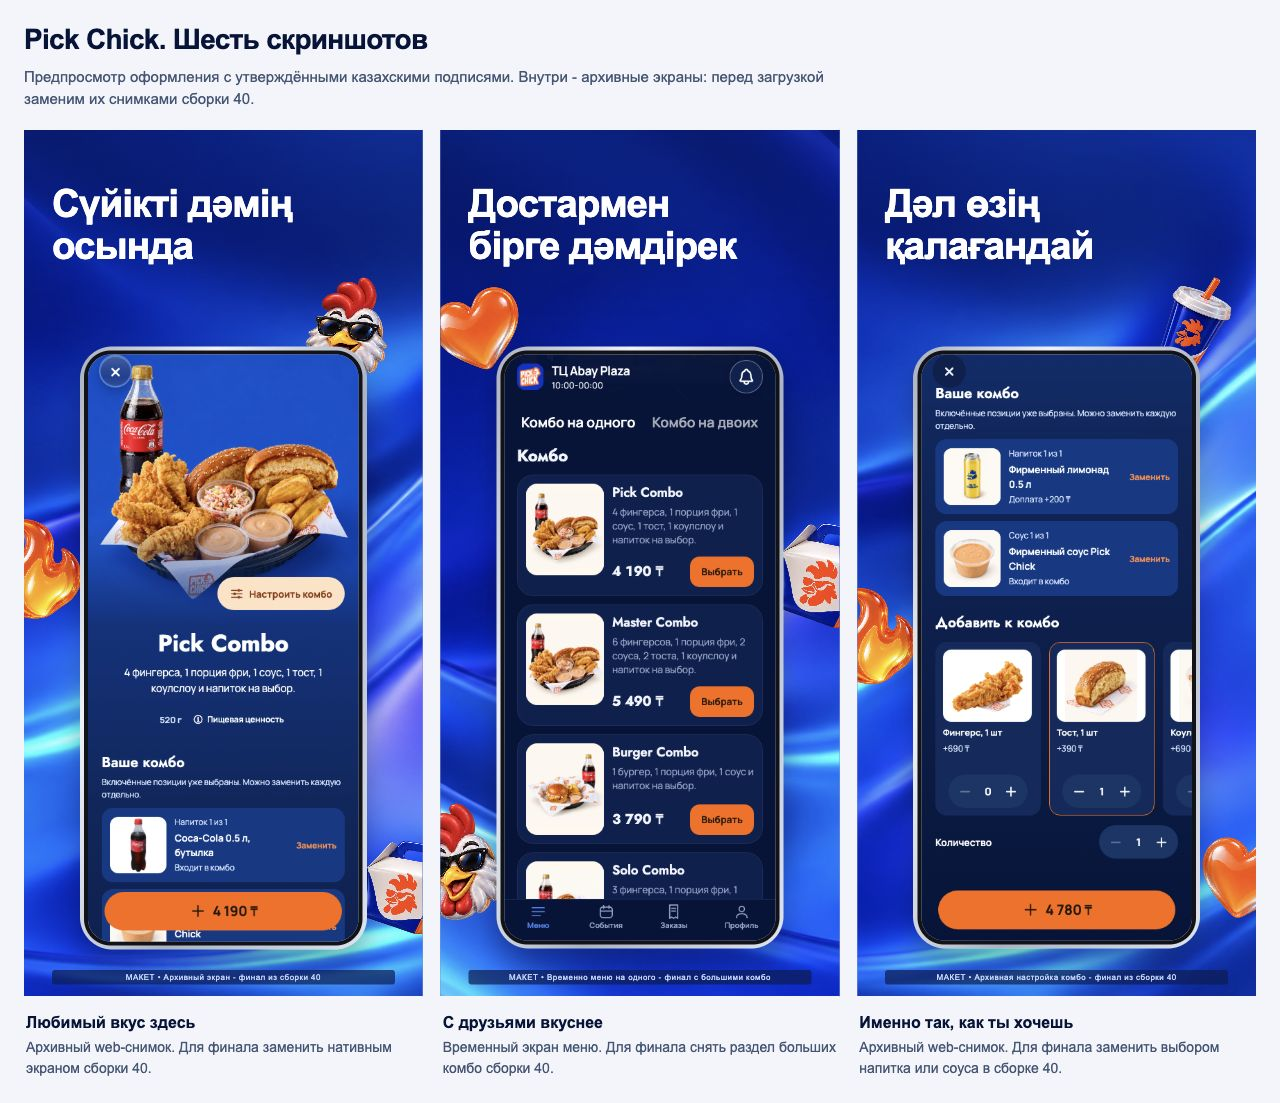
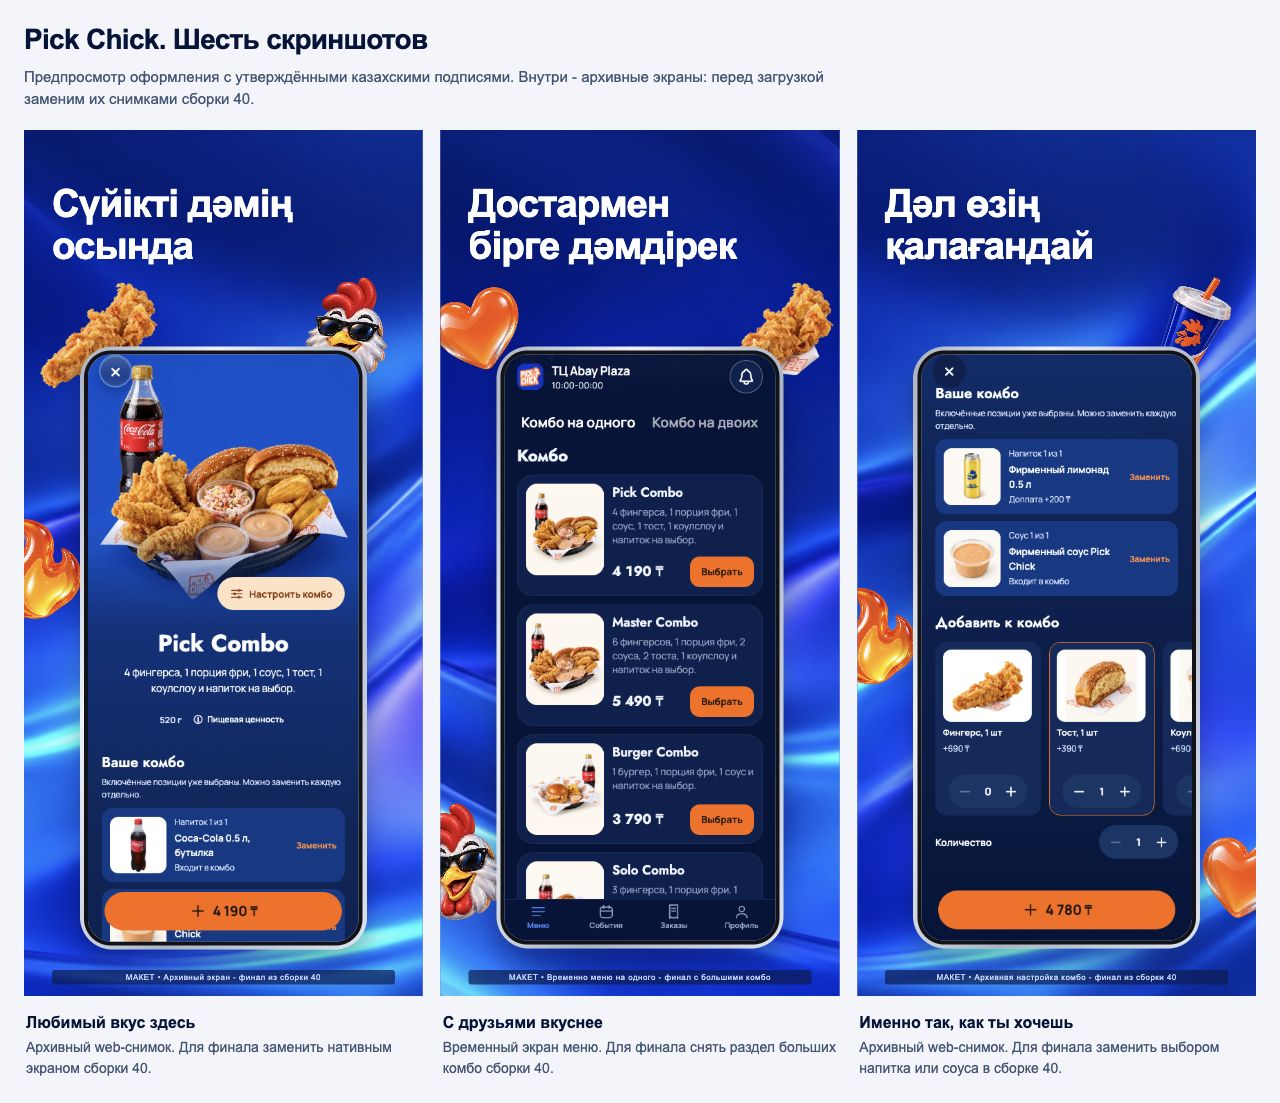
docs: replace screenshot box motifs with menu food

diff --git a/docs/operations/appstore-refresh-1117/screenshots-preview-1118/index.html b/docs/operations/appstore-refresh-1117/screenshots-preview-1118/index.html
@@ -158,8 +158,10 @@
       .motif.flame {
         background-position: 50% 0;
       }
-      .motif.box {
-        background-position: 100% 0;
+      .motif.food-fingers {
+        background-image: url('art/food-fingers.png');
+        background-position: center;
+        background-size: contain;
       }
       .motif.cup {
         background-position: 0 100%;
@@ -167,8 +169,10 @@
       .motif.heart {
         background-position: 50% 100%;
       }
-      .motif.blocks {
-        background-position: 100% 100%;
+      .motif.food-burger {
+        background-image: url('art/food-burger.png');
+        background-position: center;
+        background-size: contain;
       }
       body.cover-only main {
         padding: 0;

diff --git a/docs/operations/appstore-refresh-1117/screenshots-preview-1118/README.md b/docs/operations/appstore-refresh-1117/screenshots-preview-1118/README.md
@@ -23,7 +23,7 @@ python3 -m http.server 8876 --bind 127.0.0.1 --directory /private/tmp/pickchick-
 
 ## Оформление и ограничения
 
-Актуальный фон - синий шелковистый перелив с бирюзовыми и фиолетовыми отражениями. По просьбе владельца добавлены объёмные фигурки: Алекс в очках, пламя, коробка, стакан, сердце, стопка игровых коробок. На каждом кадре три разных мотива, расположенных за экраном. Принцип размещения изучен по Drinkit, персонажи и мотивы созданы для Pick Chick. [Происхождение и хеши](art/provenance.json), [промпты](art/prompts.md).
+Актуальный фон - синий шелковистый перелив с бирюзовыми и фиолетовыми отражениями. По просьбе владельца коробка и стопка игровых коробок заменены фингерсами и бургером из каталога приложения. Остальные мотивы - Алекс в очках, пламя, стакан и сердце. На каждом кадре три разных мотива, расположенных за экраном. Принцип размещения изучен по Drinkit, персонажи и мотивы созданы для Pick Chick. Еда взята из существующих catalog-cutouts без изменений: фингерсы - ранее созданная иллюстрация каталога, бургер - материал макета владельца. Это не новая фотосъёмка. [Происхождение и хеши](art/provenance.json), [промпты](art/prompts.md).
 
 Рамка нейтральная серебристая, без заявления о соответствии конкретному устройству. Внутри - только неизменённые исходные изображения интерфейса и еды. Казахские фразы целиком набраны Arial Bold: комплектные Jost и Manrope не содержат всех необходимых казахских глифов.
 

diff --git a/docs/operations/appstore-refresh-1117/screenshots-plan.md b/docs/operations/appstore-refresh-1117/screenshots-plan.md
@@ -2,7 +2,7 @@
 
 Статус на 18.11: [макеты оформления](screenshots-preview-1118/README.md) с утверждённым вторым набором подписей готовы для просмотра владельцем. Архивные экраны подписаны как временные. Файлов для загрузки в Apple пока нет.
 
-Актуальное направление после правки владельца: насыщенный переливающийся синий фон с бирюзовыми и фиолетовыми отражениями. Вокруг телефона - разные объёмные мотивы Pick Chick (Алекс, пламя, коробка, стакан, сердце, стопка коробок), по три на кадр. Это заменяет прежнее ограничение на фигурки за пределами телефона. Интерфейс и исходные фотографии еды не перерисованы. Телефон 72% ширины, верхняя граница на 25% высоты; заголовок остаётся крупным и читаемым.
+Актуальное направление после правки владельца: насыщенный переливающийся синий фон с бирюзовыми и фиолетовыми отражениями. Вокруг телефона - разные мотивы Pick Chick (Алекс, пламя, фингерсы, стакан, сердце, бургер), по три на кадр. Это заменяет прежнее ограничение на фигурки за пределами телефона. Интерфейс и исходные изображения еды не перерисованы. Телефон 72% ширины, верхняя граница на 25% высоты; заголовок остаётся крупным и читаемым.
 
 | Порядок | Казахская подпись        | Смысл по-русски           | Финальный экран             |
 | ------- | ------------------------ | ------------------------- | --------------------------- |

diff --git a/docs/operations/appstore-refresh-1117/README.md b/docs/operations/appstore-refresh-1117/README.md
@@ -34,6 +34,10 @@
 
 Фон и мотивы созданы встроенным генератором изображений. [Происхождение](screenshots-preview-1118/art/provenance.json) и [промпты](screenshots-preview-1118/art/prompts.md) сохранены. Проверены все размеры, исходные хеши, точные подписи и обе обзорные полосы. Это всё ещё предпросмотр; Apple и текущая обложка в нём не менялись.
 
+## Замена коробок едой 18.11
+
+По новой просьбе владельца три декоративные коробки заменены фингерсами, две стопки коробок - бургером. Использованы существующие прозрачные изображения из каталога приложения без изменения пикселей; их происхождение и SHA-256 сохранены. Подписи, интерфейсы, фон и обложка прежние. Проверены обе обзорные полосы, шесть экспортов 1320 x 2868 и неизменность исходных экранов. Новая версия макетов в Apple не загружена.
+
 ## Осталось
 
 Владелец отклонил прежние подписи и первый короткий вариант. Попросил самостоятельно предложить варианты по исследованию конкурентов. Владелец выбрал и утвердил второй, выразительный набор из captions-1118.md.
